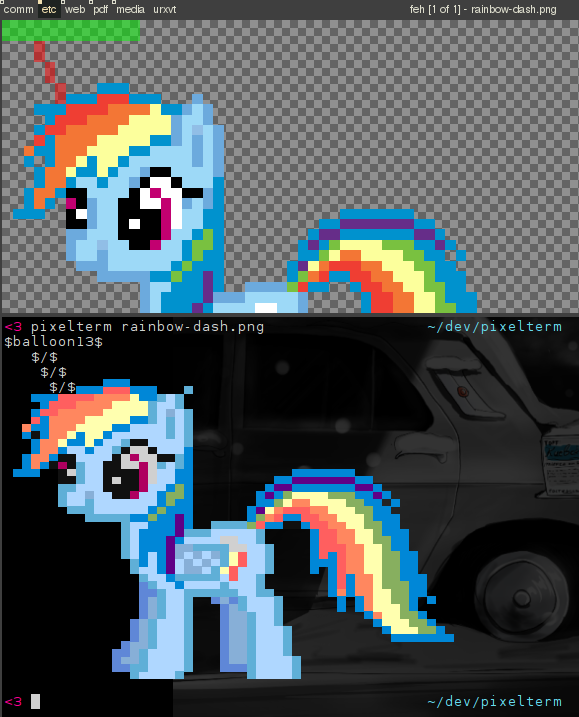
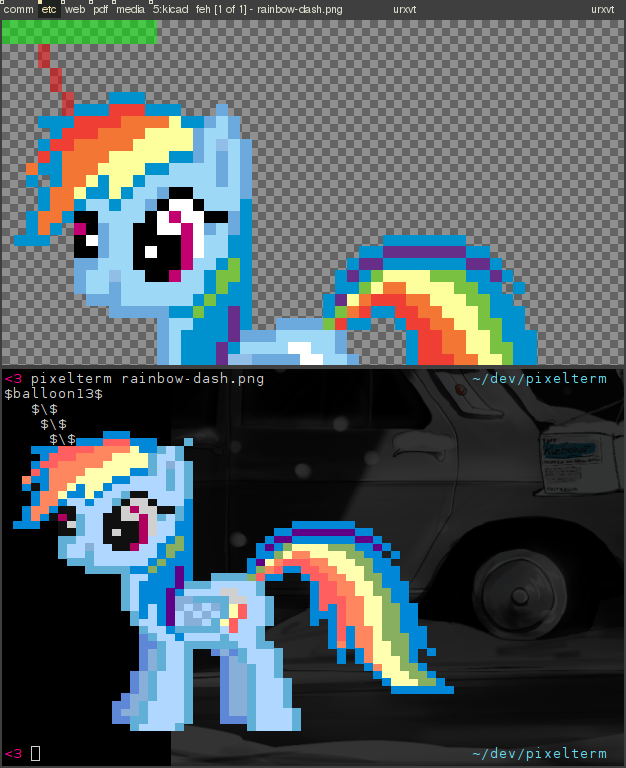
Fixed the screenshot

diff --git a/README.md b/README.md
@@ -2,7 +2,7 @@ PIXELTERM
 =========
 An utility to render pixely images on your terminal!
 
-![example](http://i.imgur.com/WqgsQ62.png)
+![example](http://i.imgur.com/Owb3l7l.png)
 
 Installation
 ------------
